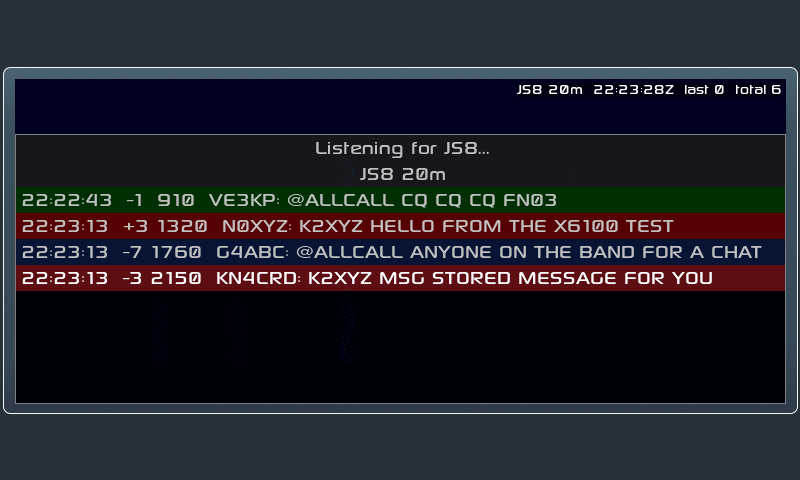
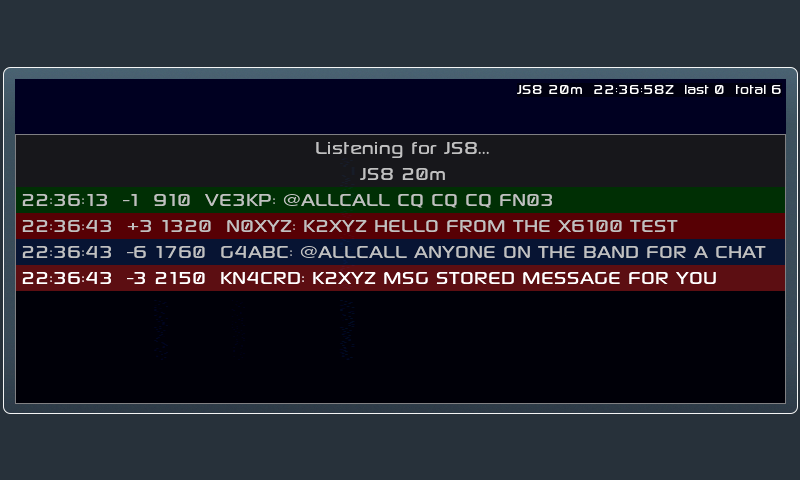
JS8: make the list follow new messages; MFK selection marks offsets
The list's auto-follow sent one LV_KEY_DOWN, which from 'no selection'
only reaches row 0, so it never followed. The FT8 table uses the same
pattern. follow() now places the selection above the last row and steps
down, which also runs lv_table's internal scroll-into-view.

Moving the selection with the MFK now marks that message's offset on the
waterfall. A tap also shows callsign and SNR. Auto-follow is excluded, so
the marker only moves when the user moves it.

The UI harness caught this: after two MFK steps up from the newest row,
the marker was on the first row. It now presses LEFT twice and checks the
result in a screenshot.

Changed region(s): [[0.0625, 0.4062, 0.9688, 0.5938], [0.7812, 0.1562, 0.8125, 0.2188]]

diff --git a/src/dialog_js8.c b/src/dialog_js8.c
@@ -151,6 +151,8 @@ static void format_row(const js8_rx_msg_t *m, char *buf, size_t size) {
              m->checksum < 0 ? "  (bad checksum)" : "");
 }
 
+static bool auto_selecting; /* follow() is moving the selection, not the user */
+
 /* Keep following new rows if the selection is on the last one. */
 static bool at_bottom(void) {
     uint16_t sel_row = 0, sel_col = 0;
@@ -158,9 +160,24 @@ static bool at_bottom(void) {
     return rows == 0 || sel_row == LV_TABLE_CELL_NONE || sel_row + 1 >= rows;
 }
 
+/* Select the last row and scroll it into view. lv_table 8.3 has no setter
+ * for the selection, so put it one row above and let the table's own key
+ * handler step down: that also runs its scroll-to-selected logic. */
 static void follow(void) {
-    static uint32_t key = LV_KEY_DOWN;
-    lv_event_send(table, LV_EVENT_KEY, &key);
+    if (rows == 0) return;
+    lv_table_t *t   = (lv_table_t *)table;
+    auto_selecting  = true;
+    if (rows == 1) {
+        t->row_act = 0;
+        t->col_act = 0;
+        lv_obj_invalidate(table);
+    } else {
+        static uint32_t key = LV_KEY_DOWN;
+        t->row_act          = rows - 2;
+        t->col_act          = 0;
+        lv_event_send(table, LV_EVENT_KEY, &key);
+    }
+    auto_selecting = false;
 }
 
 static void append_row(const char *text, int16_t hist) {
@@ -273,8 +290,9 @@ static void table_draw_cb(lv_event_t *e) {
     if (sel_row == row) dsc->rect_dsc->bg_color = lv_color_lighten(dsc->rect_dsc->bg_color, 30);
 }
 
-static void table_press_cb(lv_event_t *e) {
-    (void)e;
+/* Mark the selected message's offset on the waterfall; `announce` also
+ * pops up who it is (on a tap, not on every MFK step). */
+static void mark_selected(bool announce) {
     uint16_t row, col;
     lv_table_get_selected_cell(table, &row, &col);
     if (row >= rows || row_hist[row] < 0) {
@@ -285,9 +303,19 @@ static void table_press_cb(lv_event_t *e) {
     const js8_rx_msg_t *m = &history[row_hist[row]];
     lv_finder_set_value(finder, (int16_t)(m->freq_hz + 0.5f));
     lv_obj_invalidate(finder);
-    if (m->from[0]) {
+    if (announce && m->from[0]) {
         msg_update_text_fmt("%s at %.0f Hz, %+d dB", m->from, m->freq_hz, m->snr);
     }
+}
+
+static void table_press_cb(lv_event_t *e) {
+    (void)e;
+    mark_selected(true);
+}
+
+static void table_select_cb(lv_event_t *e) {
+    (void)e;
+    if (!auto_selecting) mark_selected(false);
 }
 
 /* ---- Receiver callbacks (worker threads) ------------------------------- */
@@ -493,6 +521,7 @@ static void construct_cb(lv_obj_t *parent) {
     table = lv_table_create(dialog.obj);
     lv_obj_remove_style(table, NULL, LV_STATE_ANY | LV_PART_MAIN);
     lv_obj_add_event_cb(table, table_press_cb, LV_EVENT_PRESSED, NULL);
+    lv_obj_add_event_cb(table, table_select_cb, LV_EVENT_VALUE_CHANGED, NULL);
     lv_obj_add_event_cb(table, key_cb, LV_EVENT_KEY, NULL);
     lv_obj_add_event_cb(table, table_draw_cb, LV_EVENT_DRAW_PART_BEGIN, NULL);
     lv_obj_set_size(table, WIDTH, WF_HEIGHT - WF_VISIBLE);

diff --git a/tools/js8_ui_harness/main.cpp b/tools/js8_ui_harness/main.cpp
@@ -156,6 +156,12 @@ int main() {
     pump(200);
     screenshot("04_all.ppm");
 
+    // MFK two steps back: the selection moves up and the finder marks it.
+    ui_key(LV_KEY_LEFT);
+    ui_key(LV_KEY_LEFT);
+    pump(200);
+    screenshot("04b_mfk_select.ppm");
+
     // Band change, then close with ESC.
     ui_band_up();
     pump(200);

diff --git a/README.md b/README.md
@@ -29,8 +29,9 @@ keys step through JS8Call's standard dial frequencies) and starts decoding.
 | Time Sync *(page 2)* | Snap the clock to the nearest 15 s. JS8 needs the clock within about ±1 s of UTC. |
 | Test WAV *(page 2)* | Decode `/mnt/js8_test.wav` instead of the radio audio: see [test-audio](test-audio). |
 
-Rows show UTC time, SNR, audio offset and the message. The MFK scrolls the
-list; tap a row to mark its offset on the waterfall. Multi-frame messages appear
+Rows show UTC time, SNR, audio offset and the message. The MFK moves through
+the list and marks the selected station's offset on the waterfall; tapping a
+row also shows its callsign and SNR. Multi-frame messages appear
 once their last frame arrives. Buffered commands such as `MSG` have their
 checksum verified and removed, as in desktop JS8Call.
 
